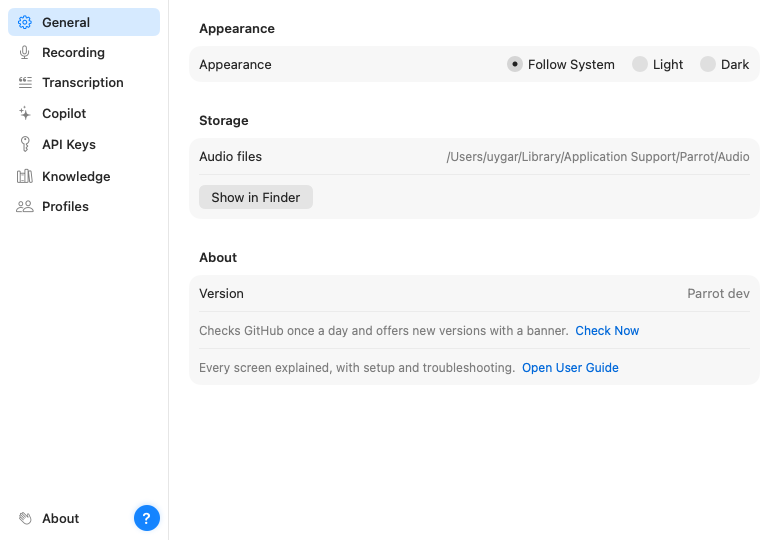
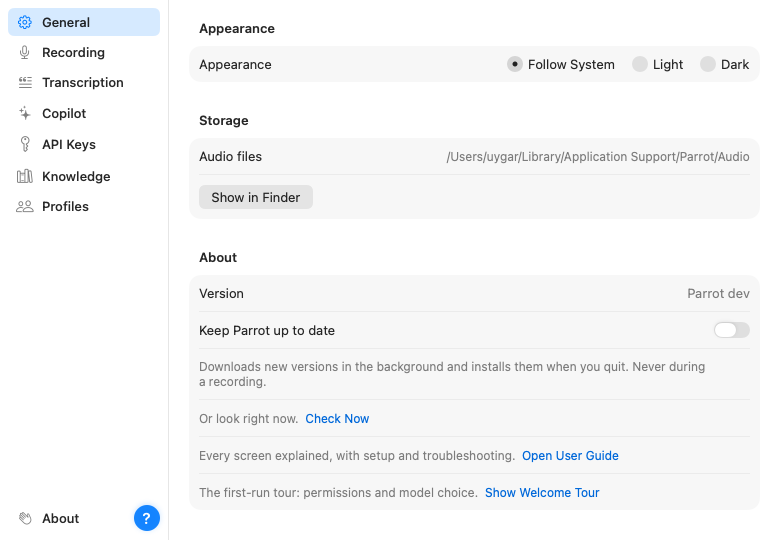
Onboarding: welcome tour is re-runnable from Settings and Help
The sheet's presentation now derives live from hasCompletedOnboarding
(@AppStorage) instead of a launch-time snapshot, so clearing the flag
re-presents the tour without a relaunch, and completing it writes the
flag back through the same binding. MeetingActions.showWelcomeTour()
resets the step to Welcome and clears the flag; exposed as Help → Show
Welcome Tour and a Settings → General → About row.

Quitting mid-onboarding already re-onboarded (persisted step, sheet not
dismissable) — this covers the other direction: getting back in after
finishing.

Guide synced: General settings paragraph now describes Sparkle-era
updates (the GitHub-banner text was stale) plus the tour link, getting-
started notes the tour auto-returns and how to replay it, and
settings-general.png is regenerated to match the shipped About section.

diff --git a/Parrot/ParrotApp.swift b/Parrot/ParrotApp.swift
@@ -75,7 +75,13 @@ struct ParrotApp: App {
     @NSApplicationDelegateAdaptor(ParrotAppDelegate.self) private var appDelegate
     @State private var recordingManager = RecordingManager()
     @State private var appSession = AppSession()
-    @State private var showOnboarding = !UserDefaults.standard.bool(forKey: "hasCompletedOnboarding")
+    // Live, not a launch-time snapshot: Settings and Help → Show Welcome Tour
+    // re-open the tour by clearing this key, and the sheet presents without a
+    // relaunch. Completing the tour sets it back through the same binding.
+    @AppStorage("hasCompletedOnboarding") private var hasCompletedOnboarding = false
+    private var showOnboarding: Binding<Bool> {
+        Binding(get: { !hasCompletedOnboarding }, set: { hasCompletedOnboarding = !$0 })
+    }
     /// Same key/enum as SettingsView's Appearance picker.
     @AppStorage("appearance") private var appearance = Appearance.system
 
@@ -98,8 +104,8 @@ struct ParrotApp: App {
                 .environment(recordingManager)
                 .environment(recordingManager.profileStore)
                 .environment(appSession)
-                .sheet(isPresented: $showOnboarding) {
-                    OnboardingView(isPresented: $showOnboarding)
+                .sheet(isPresented: showOnboarding) {
+                    OnboardingView(isPresented: showOnboarding)
                         .environment(recordingManager)
                         .interactiveDismissDisabled()
                 }

diff --git a/docs/help/settings.html b/docs/help/settings.html
@@ -19,12 +19,14 @@ saved the moment you make it, and a small "Saved" chip confirms it.</p>
 <h2>General</h2>
 <p>Appearance (follow the system, or force light or dark), where your audio
 files live on disk with a "Show in Finder" button, and the version you're
-running with a "Check Now" for updates. Parrot checks GitHub for new releases
-once a day on its own and shows a banner when there's something new; it never
-nags mid-recording. There's also an "Open User Guide" link that brings up
-this guide, an <strong>About</strong> row at the bottom of the topic list
-(that's me saying <a href="hi.html">hi</a>), and the little question-mark
-button for the guide too.</p>
+running. Updates take care of themselves: "Keep Parrot up to date" downloads
+new versions in the background and installs them when you quit, never during
+a recording, and "Check Now" looks right away. There's also an "Open User
+Guide" link that brings up this guide, a "Show Welcome Tour" link that
+replays the first-run setup (permissions and model choice), an
+<strong>About</strong> row at the bottom of the topic list (that's me saying
+<a href="hi.html">hi</a>), and the little question-mark button for the guide
+too.</p>
 
 <h2>Recording</h2>
 <img src="img/settings-recording.png" alt="The Recording settings page">

diff --git a/Parrot/Views/AppCommands.swift b/Parrot/Views/AppCommands.swift
@@ -70,6 +70,14 @@ enum MeetingActions {
             )
         ])
     }
+
+    /// Re-runs first-run onboarding. ParrotApp's sheet is derived from the
+    /// hasCompletedOnboarding key, so clearing it presents the tour right
+    /// away — no relaunch. Step goes first so the flag flip lands on Welcome.
+    static func showWelcomeTour() {
+        UserDefaults.standard.set(0, forKey: "onboardingStep")
+        UserDefaults.standard.set(false, forKey: "hasCompletedOnboarding")
+    }
 }
 
 // MARK: - Main menu commands
@@ -155,6 +163,9 @@ struct ParrotCommands: Commands {
             }
             Button("Parrot Help on the Web") {
                 MeetingActions.open("https://turantekin.github.io/Parrot/help/")
+            }
+            Button("Show Welcome Tour") {
+                MeetingActions.showWelcomeTour()
             }
             Divider()
             Button("Parrot on GitHub") {

diff --git a/docs/help/getting-started.html b/docs/help/getting-started.html
@@ -51,6 +51,9 @@ transcription works offline.</p>
 
 <h2>That's all</h2>
 <img src="img/dashboard.png" alt="The dashboard: record button, profile chips, stats and recent meetings">
+<p>Missed something, or quit halfway through the setup? Parrot brings the
+tour back on its own until you finish it, and you can replay it any time
+from Help &rarr; Show Welcome Tour.</p>
 <p>Hit the big record button and talk. The transcript shows up as you speak.
 When you're curious about the AI side of Parrot, read
 <a href="copilot-setup.html">Setting up the Copilot</a>. It's optional and off

diff --git a/Parrot/Views/OnboardingView.swift b/Parrot/Views/OnboardingView.swift
@@ -52,8 +52,9 @@ struct OnboardingView: View {
                     }
                     .buttonStyle(.borderedProminent)
                 } else {
+                    // Dismissal marks completion: the app-side binding writes
+                    // hasCompletedOnboarding when this flips to false.
                     Button("Let's start") {
-                        UserDefaults.standard.set(true, forKey: "hasCompletedOnboarding")
                         isPresented = false
                     }
                     .buttonStyle(.borderedProminent)

diff --git a/Parrot/Views/SettingsView.swift b/Parrot/Views/SettingsView.swift
@@ -215,6 +215,12 @@ struct SettingsView: View {
                     .buttonStyle(.link)
                     .font(Theme.Typography.secondary)
                 }
+                HStack(spacing: 6) {
+                    Hint("The first-run tour: permissions and model choice.")
+                    Button("Show Welcome Tour") { MeetingActions.showWelcomeTour() }
+                        .buttonStyle(.link)
+                        .font(Theme.Typography.secondary)
+                }
             }
         }
     }
